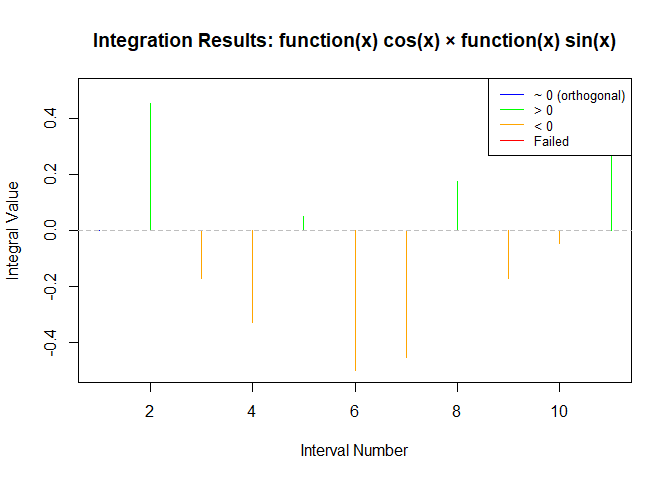
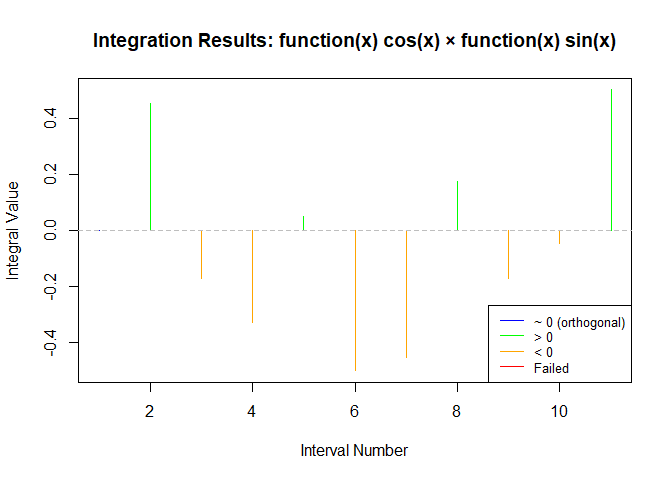
updates

Changed region(s): [[0.7812, 0.6562, 0.9375, 0.7812], [0.7812, 0.1875, 0.9375, 0.3125]]

diff --git a/README.md b/README.md
@@ -99,3 +99,42 @@ plot(noio, type = "bounds")
 ```
 
 <img src="man/figures/README-unnamed-chunk-3-2.png" width="100%" />
+
+## Mixed Example
+
+``` r
+moio <- orthinto(phi = function(x) x,
+                 psi = function(x) x^3 - (3*(pi^2)/5)*x,
+                 dl = seq(-4*pi, 0, by = pi) ,
+                 du = seq( 4*pi, 0, by = -pi))
+
+summary(moio)
+#> Orthogonal Integration Summary
+#> =============================
+#> Functions: function(x) x × function(x) x^3 - (3 * (pi^2)/5) * x 
+#> Number of intervals: 5 
+#> 
+#> Integration Values:
+#>   Min: 0.000000 
+#>   Max: 117511.558958 
+#>   Mean: 29377.889739 
+#>   Sum: 146889.448697 
+#> 
+#> Absolute Errors:
+#>   Min: 0.00e+00 
+#>   Max: 1.31e-09 
+#>   Mean: 3.27e-10 
+#> 
+#> Orthogonality Assessment:
+#>   Total integral: 146889.448697 
+#>   Assessment: Functions do not appear to be orthogonal
+plot(moio)
+```
+
+<img src="man/figures/README-unnamed-chunk-4-1.png" width="100%" />
+
+``` r
+plot(moio, type = "bounds")
+```
+
+<img src="man/figures/README-unnamed-chunk-4-2.png" width="100%" />
